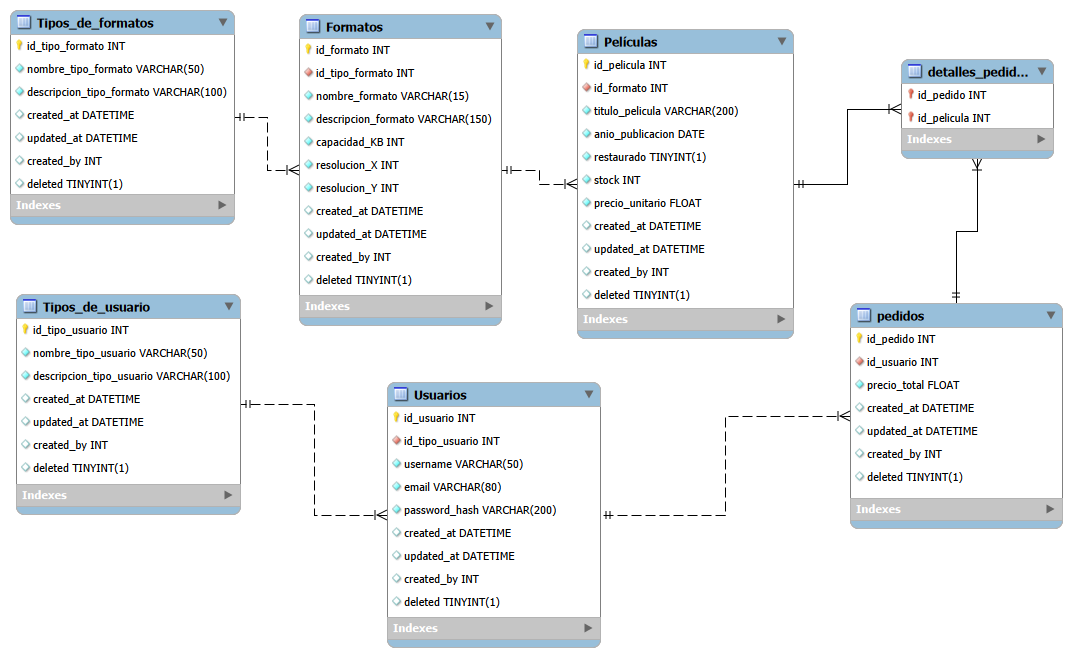
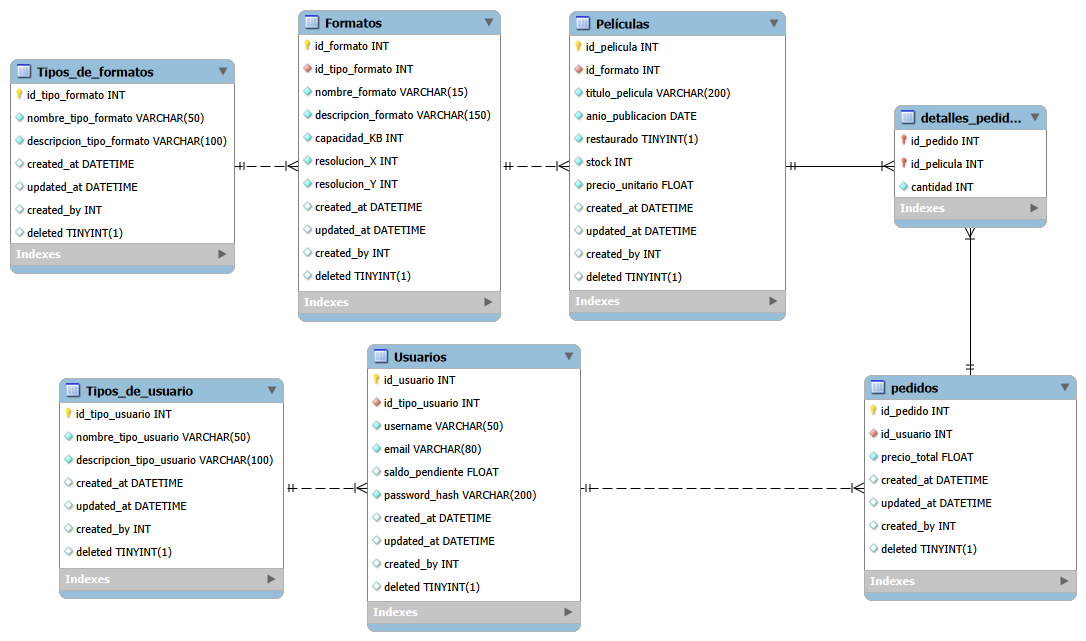
Add saldo_pendiente and refine DB queries
Add saldo_pendiente parameter to Usuario constructor and persist it on initialization. Refactor Usuario.mostrar_usuarios to query the DB for the specific user (joining Tipos_de_usuario) and display the user's balance, and update main.py call sites accordingly. Tighten Pelicula queries to filter deleted rows, fetch records by id (instead of relying on list indices), adjust messages, and make mostrar_formatos iterate over results. Update SQL seed to include saldo_pendiente values. Binary/asset and pyc files updated to reflect these changes.

diff --git a/python/fundamentos/extras/Actividad_expositiva_Sistema_Filmoteca/Usuarios.py b/python/fundamentos/extras/Actividad_expositiva_Sistema_Filmoteca/Usuarios.py
@@ -12,13 +12,13 @@ class Usuario:
     usuarios = []
     tipo_usuario = ["Administrador", "Usuario"]
     
-    def __init__(self, ID, username, email, password, tipo_usuario_ID, created_by=1):
+    def __init__(self, ID, username, email, password, tipo_usuario_ID, saldo_pendiente=0, created_by=1):
         self.ID = ID
         self.username = username
         self.email = email
         self.password_hash = password
         self.tipo_usuario = tipo_usuario_ID
-        self.saldo_pendiente = 0
+        self.saldo_pendiente = saldo_pendiente
         self.created_by = created_by
         Usuario.usuarios.append(self.username)
         
@@ -174,27 +174,26 @@ class Usuario:
         cursor.close()
         conexion.close()
         
-    def mostrar_usuarios(self, id):
+    def mostrar_usuarios(self):
         #Contacto SQL
         conexion = Conexion.conectar()
         cursor = conexion.cursor()
-        sql = """SELECT id_usuario, id_tipo_usuario, username, email
-        FROM Usuarios
-        WHERE deleted = 0"""
-        cursor.execute(sql)
-        listaUsuarios = cursor.fetchall()
-        #Establecer tipo
-        tipo = ""
-        if listaUsuarios[id-1][1] == 2:
-            tipo = "Administrador"
-        elif listaUsuarios[id-1][1] == 1:
-            tipo = "Usuario"
+        sql = """SELECT t.nombre_tipo_usuario, u.username, u.email, u.saldo_pendiente
+        FROM Usuarios u
+        INNER JOIN Tipos_de_usuario t
+        ON u.id_tipo_usuario = t.id_tipo_usuario
+        WHERE id_usuario = %s AND u.deleted = 0 AND t.deleted = 0"""
+        valores = (self.ID,)
+        cursor.execute(sql, valores)
+        listaUsuario = cursor.fetchall()
+        cursor.close()
+        conexion.close()
         #Imprimir información
         print("\nImprimiendo información del usuario...")
-        print(f"Nombre de usuario: {listaUsuarios[id-1][2]}")
-        print(f"Email: {listaUsuarios[id-1][3]}")
-        print(f"Tipo de usuario: {tipo}")
-        print(f"Saldo pendiente: {self.saldo_pendiente}")
+        print(f"Nombre de usuario: {listaUsuario[0][1]}")
+        print(f"Email: {listaUsuario[0][2]}")
+        print(f"Tipo de usuario: {listaUsuario[0][0]}")
+        print(f"Saldo pendiente: ${listaUsuario[0][3]}")
         
 user1 = Usuario(1, "SuperDONO17", "[email redacted]", "JAOSF)=/JF", 1)
 user2 = Usuario(2, "IncrediJavi", "[email redacted]", "nsKSJ=(/!/%", 2)

diff --git a/python/fundamentos/extras/Actividad_expositiva_Sistema_Filmoteca/peliculas.py b/python/fundamentos/extras/Actividad_expositiva_Sistema_Filmoteca/peliculas.py
@@ -27,7 +27,7 @@ class Pelicula:
         cursor = conexion.cursor()
         sql = """UPDATE Películas
         SET stock = %s
-        WHERE id_pelicula = %s"""
+        WHERE id_pelicula = %s AND deleted = 0"""
         valores = (self.stock, self.ID)
         cursor.execute(sql, valores)
         conexion.commit()
@@ -45,11 +45,11 @@ class Pelicula:
         cursor = conexion.cursor()
         sql = """UPDATE Películas
         SET restaurado = %s
-        WHERE id_pelicula = %s"""
+        WHERE id_pelicula = %s AND deleted = 0"""
         valores = (1, self.ID)
         cursor.execute(sql, valores)
         conexion.commit()
-        print(f"Stock actualizado, stock actual de la película: {self.stock}")
+        print(f"Película restaurada correctamente.")
         cursor.close()
         conexion.close()
         
@@ -61,24 +61,25 @@ class Pelicula:
         FROM Películas p
         INNER JOIN Formatos f
         ON p.id_formato = f.id_formato
-        WHERE p.deleted = 0 AND f.deleted = 0"""
-        cursor.execute(sql)
-        listaPeliculas = cursor.fetchall()
-        print(listaPeliculas)
+        WHERE p.id_pelicula = %s AND p.deleted = 0 AND f.deleted = 0"""
+        valores = (self.ID,)
+        cursor.execute(sql, valores)
+        listaPelicula = cursor.fetchall()
+        print(listaPelicula)
         #Establecer estado de restauracion
         rest = ""
-        if listaPeliculas[self.ID-1][3] == 1:
+        if listaPelicula[0][3] == 1:
             rest = "Restaurado"
         else:
             rest = "No restaurado"
         #Imprimir información
         print("\nMostrando información de la película...")
-        print(f"Título: {listaPeliculas[self.ID-1][0]}")
-        print(f"Año de publicación: {listaPeliculas[self.ID-1][1]}")
-        print(f"Formato: {listaPeliculas[self.ID-1][2]}")
+        print(f"Título: {listaPelicula[0][0]}")
+        print(f"Año de publicación: {listaPelicula[0][1]}")
+        print(f"Formato: {listaPelicula[0][2]}")
         print(f"Estado de restauración: {rest}")
-        print(f"Stock: {listaPeliculas[self.ID-1][4]}")
-        print(f"Precio unitario: {listaPeliculas[self.ID-1][5]}")
+        print(f"Stock: {listaPelicula[0][4]}")
+        print(f"Precio unitario: {listaPelicula[0][5]}")
         
     @classmethod
     def mostrar_formatos(cls):
@@ -92,11 +93,8 @@ class Pelicula:
         listaFormatos = cursor.fetchall()
         #Imprimir información
         print("\nMostrando información de los formatos...")
-        print(f"{listaFormatos[0][0]}: {listaFormatos[0][1]}")
-        print(f"{listaFormatos[1][0]}: {listaFormatos[1][1]}")
-        print(f"{listaFormatos[2][0]}: {listaFormatos[2][1]}")
-        print(f"{listaFormatos[3][0]}: {listaFormatos[3][1]}")
-        print(f"{listaFormatos[4][0]}: {listaFormatos[4][1]}")
+        for i in range(0, len(listaFormatos)):
+            print(f"{listaFormatos[i][0]}: {listaFormatos[i][1]}")
         
 pel1 = Pelicula(1, "Bugs Bunny's 3rd Movie: 1001 Rabbit Tales", 1981, 5.99, 10, 1)
 pel2 = Pelicula(2, "The Bugs Bunny Road-Runner Movie", 1979, 3.99, 3, 2)

diff --git a/python/fundamentos/extras/Actividad_expositiva_Sistema_Filmoteca/main.py b/python/fundamentos/extras/Actividad_expositiva_Sistema_Filmoteca/main.py
@@ -140,14 +140,11 @@ while True:
         print(f"Usuarios registrados: \n- {("\n- ").join(Usuario.usuarios)}")
         user = input("Ingresa tu nombre de usuario: ")
         if user == user1.username:
-            id = 1
-            user1.mostrar_usuarios(id)
+            user1.mostrar_usuarios()
         elif user == user2.username:
-            id = 2
-            user1.mostrar_usuarios(id)
+            user1.mostrar_usuarios()
         elif user == user3.username:
-            id = 3
-            user3.mostrar_usuarios(id)
+            user3.mostrar_usuarios()
         else:
             print("Usuario inválido.")
     elif opcion == "5":